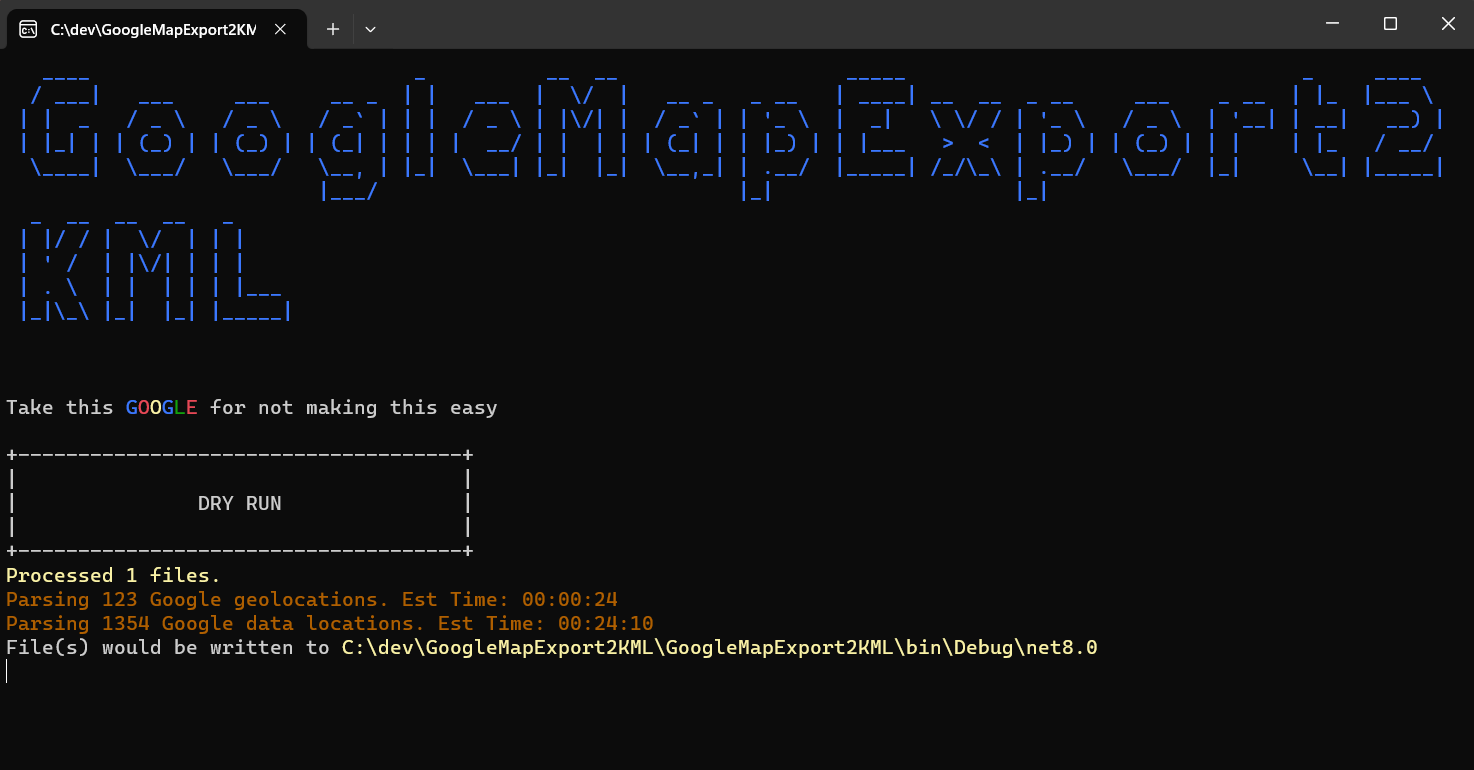
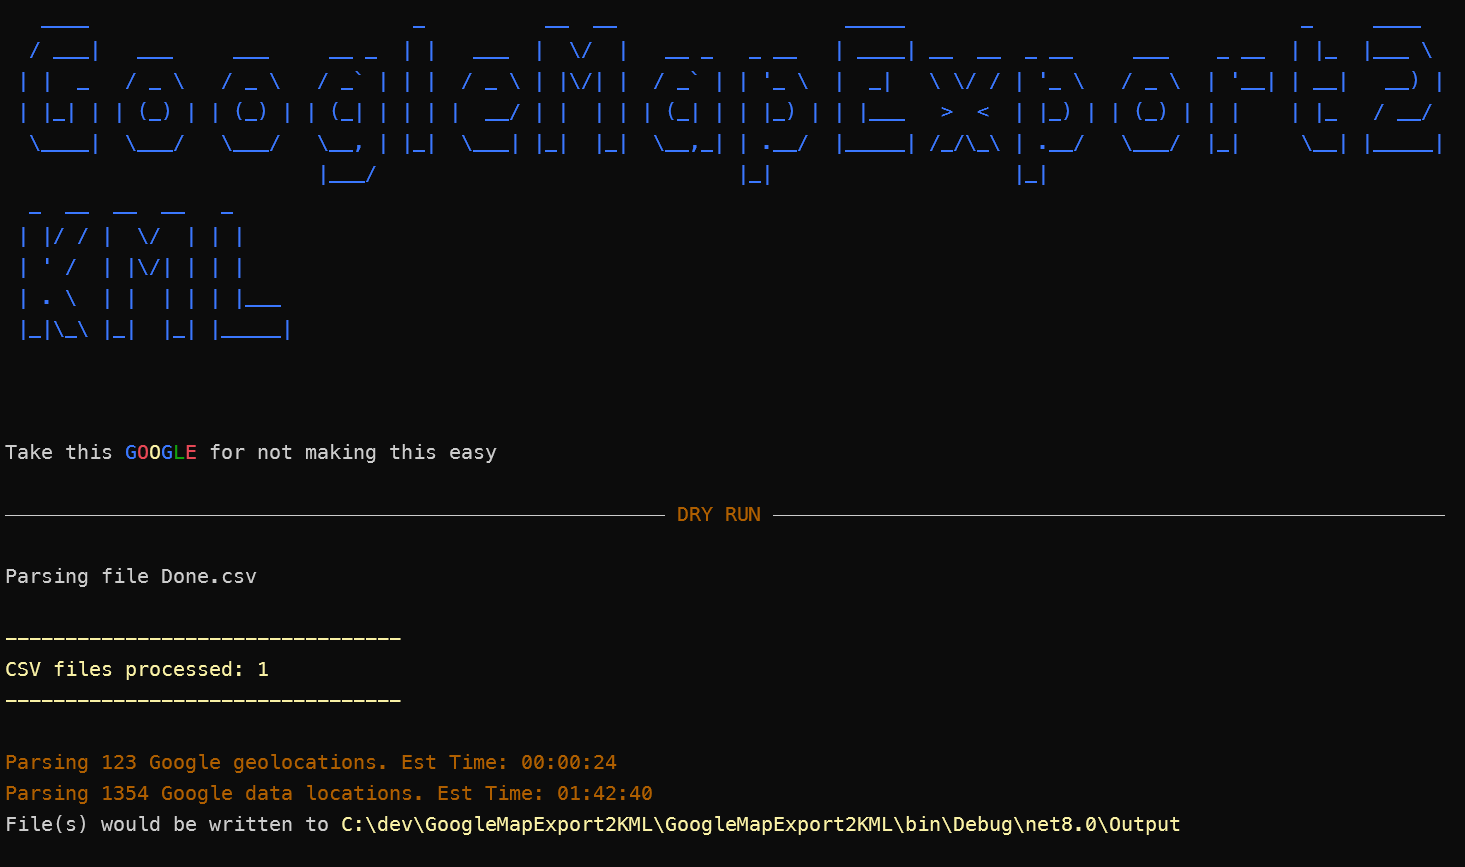
code cleanup

diff --git a/GoogleMapExport2KML/Commands/ParseCommand.cs b/GoogleMapExport2KML/Commands/ParseCommand.cs
@@ -51,15 +51,20 @@ public class ParseCommand : AsyncCommand<ParseSettings>
         }
         else
         {
-            var panel = new Panel("               DRY RUN               ");
-            panel.Border = BoxBorder.Ascii;
-            panel.Padding = new Padding(0, 1, 0, 1);
-            AnsiConsole.Write(panel);
+            var rule = new Rule("[bold darkorange3]DRY RUN[/]");
+            rule.Centered();
+            AnsiConsole.Write(rule);
+            AnsiConsole.WriteLine("");
         }
 
-        if(settings.MaxDegreeOfParallelism > 5)
+        if (settings.MaxDegreeOfParallelism > 10)
         {
-            AnsiConsole.MarkupLine($"[red bold]!!WARNING: Setting --parallel higher then 10 will cause excessive memory usage!!{Environment.NewLine}[/]");
+            AnsiConsole.MarkupLine($"[red bold]!!WARNING: Setting --parallel higher then 10 can cause excessive memory usage!!{Environment.NewLine}[/]");
+        }
+
+        if (settings.BatchCount > 10)
+        {
+            AnsiConsole.MarkupLine($"[red bold]!!WARNING: Setting --batch higher then 10 can cause excessive memory usage!!{Environment.NewLine}[/]");
         }
         List<CsvLineItemError> csvErrors = [];
         List<CsvLineItemResponse> csvResponses = [];
@@ -82,7 +87,7 @@ public class ParseCommand : AsyncCommand<ParseSettings>
             }
         }
 
-        _verboseRenderer.Render(settings, () => AnsiConsole.MarkupLine($"[yellow bold]Processed {csvResponses.Count} files.[/]"));
+        _verboseRenderer.Render(settings, () => AnsiConsole.MarkupLine($"[yellow bold]CSV files processed: {csvResponses.Count}[/]"));
 
         var errorCode = await _statExecutor.ExecuteAsync("Processing Latitude Longitude Data", async () =>
         {
@@ -110,7 +115,7 @@ public class ParseCommand : AsyncCommand<ParseSettings>
                         await File.WriteAllLinesAsync(Path.Combine(fi.Directory!.FullName, "error.log"), geoResponse.Errors.Select(s => s.ToString()));
                     }
                 }
-                _verboseRenderer.Render(settings, () => AnsiConsole.MarkupLine($"[yellow bold]Processed {geoResponse.Placemarks.Count} geolocations.[/]"));
+                _verboseRenderer.Render(settings, () => AnsiConsole.MarkupLine($"[yellow bold]Google geolocations processed: {geoResponse.Placemarks.Count}[/]"));
                 kml.Document.Placemarks.AddRange(geoResponse.Placemarks);
             }
             return 0;
@@ -145,7 +150,7 @@ public class ParseCommand : AsyncCommand<ParseSettings>
                         await File.WriteAllLinesAsync(Path.Combine(fi.Directory!.FullName, "error.log"), dataResponse.Errors.Select(s => s.ToString()));
                     }
                 }
-                _verboseRenderer.Render(settings, () => AnsiConsole.MarkupLine($"[yellow bold]Processed {dataResponse.Placemarks.Count} places.[/]"));
+                _verboseRenderer.Render(settings, () => AnsiConsole.MarkupLine($"[yellow bold]Goolge places processed: {dataResponse.Placemarks.Count}.[/]"));
                 kml.Document.Placemarks.AddRange(dataResponse.Placemarks);
             }
             return 0;
@@ -167,19 +172,16 @@ public class ParseCommand : AsyncCommand<ParseSettings>
                 _kmlService.CreateKML(kml, fi, settings);
                 return Task.CompletedTask;
             });
-
             sw.Stop();
+            if (settings.IncludeStats)
+            {
+                var finalRow = new Stat($"Total Processing Time", sw.ElapsedMilliseconds);
+                DisplayStatsTable(_statExecutor.GetResults(), "Runtime Stats", finalRow);
+            }
+
             AnsiConsole.WriteLine("");
             AnsiConsole.MarkupLine($"[green bold]KML file(s) successfully generated. Placements: {kml.Document.Placemarks.Count}.[/]");
             AnsiConsole.WriteLine("");
-            if (settings.IncludeStats)
-            {
-                foreach (var stat in _statExecutor.GetResults())
-                {
-                    AnsiConsole.MarkupLine($"{stat.Event}: {stat.TotalMs.MsToTime()}");
-                }
-            }
-            AnsiConsole.MarkupLine($"Total Processing Time: {sw.ElapsedMilliseconds.MsToTime()}");
             AnsiConsole.MarkupLine($"File(s) written to [yellow]{fi.Directory!.FullName}[/]");
         }
 
@@ -188,14 +190,13 @@ public class ParseCommand : AsyncCommand<ParseSettings>
 
     private static void DisplayErrorTable(List<CsvLineItemError> csvErrors, string title)
     {
-        AnsiConsole.MarkupLine($"{title}: [bold red]{csvErrors.Count}[/]");
         //output error rows in table
         var table = new Table();
-        table.Border(TableBorder.Rounded);
-        table.LeftAligned();
+        table.Title($"{title}: [bold red](Errors: {csvErrors.Count})[/]");
+        table.Alignment(Justify.Left).Ascii2Border();
         // Add some columns
-        table.AddColumn("RowIndex").Centered();
-        table.AddColumn("ColumnIndex").Centered();
+        table.AddColumn("RowIndex", c => c.Alignment(Justify.Center));
+        table.AddColumn("ColumnIndex", c => c.Alignment(Justify.Center));
         table.AddColumn("Error");
         table.AddColumn("Row");
 
@@ -203,6 +204,26 @@ public class ParseCommand : AsyncCommand<ParseSettings>
         {
             table.AddRow(line.RowIndex.ToString(), line.ColumnIndex.ToString(), line.Error ?? "Unknown", line.Row ?? "No Row Data");
         }
+
+        AnsiConsole.Write(table);
+    }
+
+    private static void DisplayStatsTable(IEnumerable<Stat> stats, string title, Stat finalRow)
+    {
+        //output error rows in table
+        var table = new Table();
+        table.Title($"[bold yellow3_1]{title}[/]");
+        table.Ascii2Border().Alignment(Justify.Left);
+        // Add some columns
+        table.AddColumn("Event");
+        table.AddColumn("Time",c=>c.Alignment(Justify.Center));
+
+        foreach (var stat in stats)
+        {
+            table.AddRow(stat.Event, stat.TotalMs.MsToTime());
+        }
+        table.AddEmptyRow();
+        table.AddRow($"[bold yellow3_1]{finalRow.Event}[/]", $"[bold yellow3_1]{finalRow.TotalMs.MsToTime()}[/]");
 
         AnsiConsole.Write(table);
     }

diff --git a/GoogleMapExport2KML/Processors/DatalocationProcessor.cs b/GoogleMapExport2KML/Processors/DatalocationProcessor.cs
@@ -19,8 +19,8 @@ public class DataLocationProcessor
     private readonly IWebDriverPool _webFactory;
     private readonly StatExecutor _statExecutor;
     private readonly Mapper _mapper;
-    private int _delay = 3000;
-    private double _spinupFactor = 0.7; //amount to factor in for driver creation when estimating
+    private int _delay = 3500;
+    private double _spinupFactor = 1.3; //amount to factor in for driver creation when estimating
 
     public DataLocationProcessor(Mapper mapper, IWebDriverPool webFactory, StatExecutor statExecutor)
     {
@@ -31,7 +31,7 @@ public class DataLocationProcessor
 
     public string EstimateRunTime(List<CsvLineItem> dataPlaces, ParseSettings settings)
     {
-        return $"Parsing {dataPlaces.Count} Google data locations. Est Time: {(dataPlaces.Count * (_delay * 2.5) / (settings.MaxDegreeOfParallelism * _spinupFactor)).MsToTime()}";
+        return $"Parsing {dataPlaces.Count} Google data locations. Est Time: {(dataPlaces.Count * (_delay * _spinupFactor)).MsToTime()}";
     }
 
     public async Task<ProcessorResponse> ProcessAsync(List<CsvLineItem> dataPlaces, ParseSettings settings)
@@ -41,7 +41,7 @@ public class DataLocationProcessor
         if (dataPlaces.Count > 0)
         {
             var _queue = new ConcurrentBag<int>();
-            var msgFormat = $"Parsing {{0}} of {dataPlaces.Count} Google data locations. Est Time: {(dataPlaces.Count * (_delay * 2.5) / (settings.MaxDegreeOfParallelism * _spinupFactor)).MsToTime()}";
+            var msgFormat = $"Parsing {{0}} of {dataPlaces.Count} Google data locations. Est Time: {(dataPlaces.Count * (_delay * _spinupFactor)).MsToTime()}";
             return await AnsiConsole.Status()
            .Spinner(Spinner.Known.Circle)
            .SpinnerStyle(Style.Parse("blue bold"))
@@ -53,7 +53,6 @@ public class DataLocationProcessor
                    var timeout = TimeSpan.FromSeconds(settings.QueryPlacesTimeoutSeconds);
                    var chunkSize = (int)Math.Ceiling((double)dataPlaces.Count / settings.BatchCount);
                    var batches = dataPlaces.Chunk(settings.BatchCount).ToArray();
-                   //var test = dataPlaces.Chunk(settings.BatchCount).ToArray();
                    AnsiConsole.MarkupLine($"Created {chunkSize} batches of {settings.BatchCount} for processing");
                    var batchIdx = 1;
                    foreach (var batch in batches)
@@ -73,9 +72,6 @@ public class DataLocationProcessor
                        });
                        batchIdx++;
                    }
-                   //actionBlock.Complete();
-                   //// Wait for all messages to propagate through the network.
-                   //await actionBlock.Completion;
                }
                catch (TaskCanceledException)
                {

diff --git a/GoogleMapExport2KML/Automation/ChromeDriverPool.cs b/GoogleMapExport2KML/Automation/ChromeDriverPool.cs
@@ -10,8 +10,6 @@ namespace GoogleMapExport2KML.Automation;
 public class ChromeDriverPool : IWebDriverPool
 {
     private ParseSettings _settings;
-    private Process _proc;
-    //private ConcurrentBag<KmlChromeDriver> _drivers = [];
     private ConcurrentBag<KmlChromeDriver> _objectPool = [];
 
     public Task InitializeAsync(ParseSettings settings)
@@ -48,48 +46,11 @@ public class ChromeDriverPool : IWebDriverPool
         return driver;
     }
 
-    //public async Task ReturnAsync(KmlChromeDriver driver)
-    //{
-    //    //if (GetChromeProcessUsage() > 3000000000)
-    //    //{
-    //    //    AnsiConsole.MarkupLine($"[grey50]4GB met[/]");
-    //    //    _driversToFlush.Add(driver);
-    //    //    //we reach threshold we need to flush all the drivers and start over
-    //    //    if (_driversToFlush.Count == _settings.MaxDegreeOfParallelism)
-    //    //    {
-    //    //        AnsiConsole.MarkupLine($"[grey50]Flushing drivers[/]");
-    //    //        foreach (var d in _driversToFlush)
-    //    //        {
-    //    //            //d.Instance.Close();
-    //    //            d.Instance.Quit();
-    //    //            //_objectPool.Return(d);
-    //    //            await Task.Delay(1000);
-    //    //        }
-    //    //        AnsiConsole.MarkupLine($"[grey50]Resetting flush driver queue[/]");
-    //    //        _driversToFlush.Clear();
-    //    //    }
-    //    //}
-    //    //else
-    //    //{
-    //    //    _objectPool.Return(driver);
-    //    //}
-    //    driver.Instance.Close();
-    //    _objectPool.Add(driver);
-    //}
-
-
     public Task ReturnAsync(IBrowser browser)
     {
         var internalBrowser = browser as ChromeBrowser;
         _objectPool.Add(internalBrowser!.Driver);
         return Task.CompletedTask;
-    }
-
-    private long GetChromeProcessUsage()
-    {
-        var chromeProcesses = Process.GetProcessesByName("chrome");
-        var filteredProcesses = chromeProcesses.Where(process => process.WorkingSet64 > 500 * 1024 * 1024); //  500MB in bytes
-        return filteredProcesses.Sum(s => s.WorkingSet64);
     }
 
     public Task ShutDownDriversAsync()

diff --git a/GoogleMapExport2KML/Commands/ParseSettings.cs b/GoogleMapExport2KML/Commands/ParseSettings.cs
@@ -34,7 +34,7 @@ public class ParseSettings : KmlBaseSettings
     [Description("The output KML file.")]
     public string OutputFile { get; set; }
 
-    [CommandOption("-c|--chunks")]
+    [CommandOption("--placements-per-file")]
     [Description("The number of placements to add per KML file. Files will be named based on number of files needed. Default ALL")]
     public int PlacementsPerFile { get; set; } = -1;
 
@@ -42,9 +42,9 @@ public class ParseSettings : KmlBaseSettings
     [Description("The timeout to wait on each lookup for coordinates from Google. Default 10s")]
     public double QueryPlacesTimeoutSeconds { get; set; } = 10;
 
-    [CommandOption("-w|--wait-timeout")]
-    [Description("The timeout to wait for the page to load from Google. Default 300s")]
-    public double QueryPlacesWaitTimeoutSeconds { get; set; } = 300;
+    //[CommandOption("-w|--wait-timeout")]
+    //[Description("The timeout to wait for the page to load from Google. Default 300s")]
+    //public double QueryPlacesWaitTimeoutSeconds { get; set; } = 300;
 
     [CommandOption("--stopOnError")]
     [Description("If true. Stops parsing on any csv row error.")]

diff --git a/GoogleMapExport2KML/Automation/PlaywrightDriverPool.cs b/GoogleMapExport2KML/Automation/PlaywrightDriverPool.cs
@@ -10,8 +10,6 @@ namespace GoogleMapExport2KML.Automation;
 public class PlaywrightDriverPool : IWebDriverPool
 {
     private ParseSettings _settings;
-    //private ObjectPool<KmlChromeDriver> _objectPool;
-    private Process _proc;
     private ConcurrentBag<KmlPlaywrightDriver> _objectPool = [];
 
     public async Task InitializeAsync(ParseSettings settings)
@@ -21,10 +19,6 @@ public class PlaywrightDriverPool : IWebDriverPool
         for (var i = 0; i < settings.MaxDegreeOfParallelism; i++) //create 1 driver per parallelism
         {
             var playwright = await Playwright.CreateAsync();
-            //var browser = await playwright.Webkit.LaunchAsync(new() { Headless = true });
-            //var page = await browser.NewPageAsync();
-            //await page.GotoAsync("https://playwright.dev/dotnet");
-            //await page.ScreenshotAsync(new() { Path = "screenshot.png" });
             var driver = new KmlPlaywrightDriver(playwright, settings);
             driver.SetPool(this);
             driver.SetBrowser(new PlaywrightBrowser(driver));

diff --git a/GoogleMapExport2KML/Program.cs b/GoogleMapExport2KML/Program.cs
@@ -41,10 +41,10 @@ app.Configure(config =>
 if (Debugger.IsAttached)
 {
     args = ["parse",
-        @"-f=C:\Users\d1820\Downloads\takeout-20240120T191337Z-001\Takeout\Saved\Done.csv",
+        @"-f=C:\Users\d1820\Downloads\takeout-20240120T191337Z-001\Takeout\Saved\Camping.csv",
         "--stopOnError",
         //"--noheader",
-        //"--dryrun",
+        "--dryrun",
         "--stats",
         "--parallel=10",
         "-t=120",
@@ -52,7 +52,7 @@ if (Debugger.IsAttached)
         //"--trace",
         "--verbose",
         //"-c=3",
-        @"-o=Output\Done.kml"];
+        @"-o=Output\Camping.kml"];
 
     //args = ["parse", "--help"];
 

diff --git a/GoogleMapExport2KML/Services/VerboseRenderer.cs b/GoogleMapExport2KML/Services/VerboseRenderer.cs
@@ -9,11 +9,13 @@ public class VerboseRenderer
     {
         if (settings.Verbose || settings.Trace)
         {
+            AnsiConsole.WriteLine("");
             AnsiConsole.MarkupLine("[yellow bold]---------------------------------[/]");
         }
         action.Invoke();
         if (settings.Verbose || settings.Trace)
         {
+            AnsiConsole.MarkupLine("[yellow bold]---------------------------------[/]");
             AnsiConsole.WriteLine("");
         }
     }

diff --git a/GoogleMapExport2KML/Automation/ChromeBrowser.cs b/GoogleMapExport2KML/Automation/ChromeBrowser.cs
@@ -1,8 +1,8 @@
-using GoogleMapExport2KML.Interfaces;
+using GoogleMapExport2KML.Interfaces;
 
 namespace GoogleMapExport2KML.Automation;
 
-public class ChromeBrowser : IBrowser, IDisposable
+public class ChromeBrowser : IBrowser
 {
     public KmlChromeDriver Driver { get; }
 

diff --git a/GoogleMapExport2KML/Automation/PlaywrightBrowser.cs b/GoogleMapExport2KML/Automation/PlaywrightBrowser.cs
@@ -3,7 +3,7 @@ using Microsoft.Playwright;
 
 namespace GoogleMapExport2KML.Automation;
 
-public class PlaywrightBrowser : Interfaces.IBrowser, IDisposable
+public class PlaywrightBrowser : Interfaces.IBrowser
 {
     public KmlPlaywrightDriver Driver { get; }
 

diff --git a/GoogleMapExport2KML/Automation/KmlPlaywrightDriver.cs b/GoogleMapExport2KML/Automation/KmlPlaywrightDriver.cs
@@ -46,8 +46,6 @@ public class KmlPlaywrightDriver : IResettable, IDriver
 
     public bool TryReset()
     {
-        //AnsiConsole.MarkupLine($"Closing Window {_id}");
-        //Instance.Close(); //close the window
         return true;
     }
 

diff --git a/GoogleMapExport2KML/Automation/KmlChromeDriver.cs b/GoogleMapExport2KML/Automation/KmlChromeDriver.cs
@@ -76,8 +76,6 @@ public class KmlChromeDriver : IResettable, IDriver
 
     public bool TryReset()
     {
-        //AnsiConsole.MarkupLine($"Closing Window {_id}");
-        //Instance.Close(); //close the window
         return true;
     }
 

diff --git a/GoogleMapExport2KML/Services/StatExecutor.cs b/GoogleMapExport2KML/Services/StatExecutor.cs
@@ -48,6 +48,11 @@ public class StatExecutor
         return _stats;
     }
 
+    public void AddStat(Stat stat)
+    {
+        _stats.Add(stat);
+    }
+
     public void Reset()
     {
         _stopWatch.Reset();
